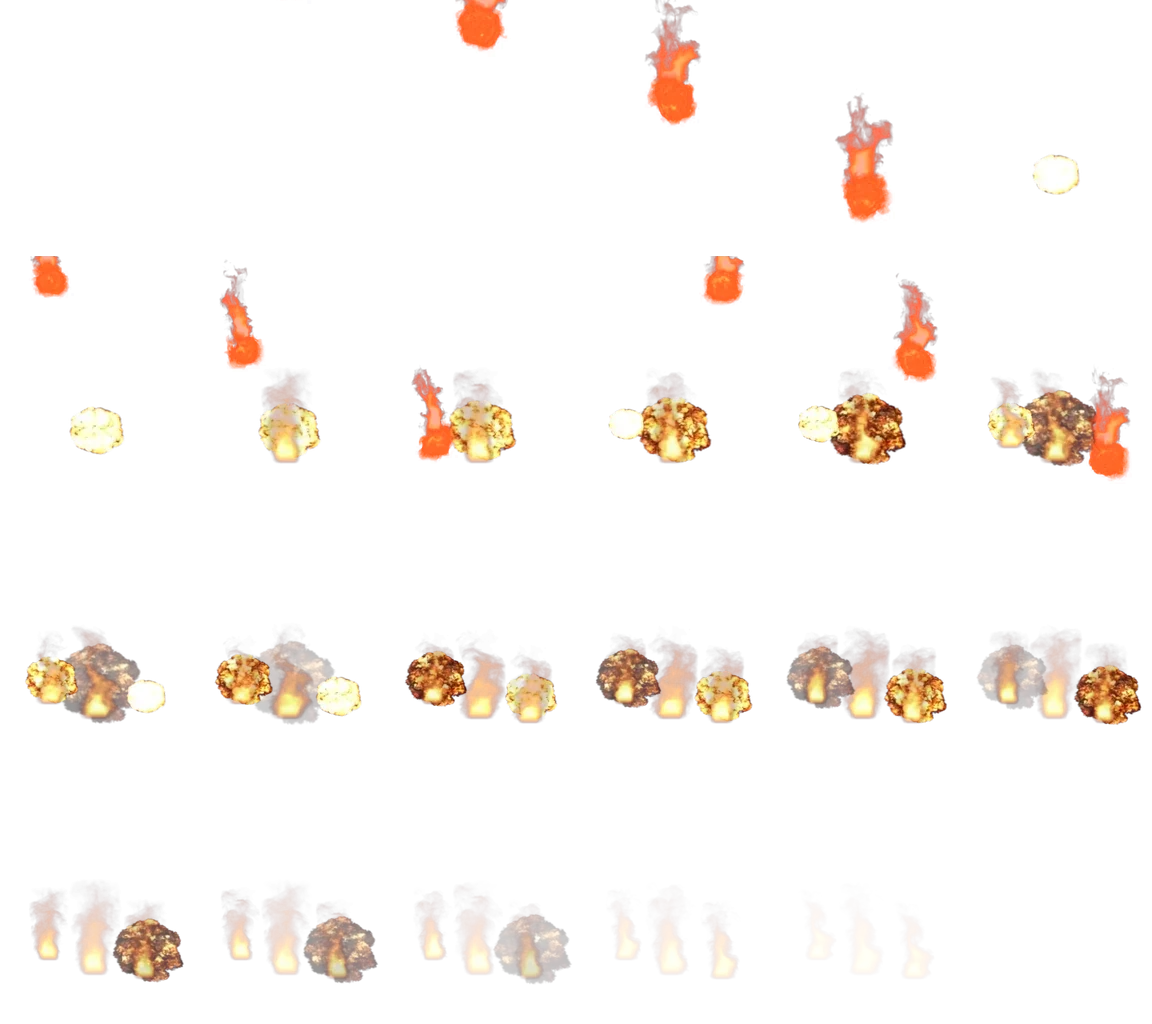
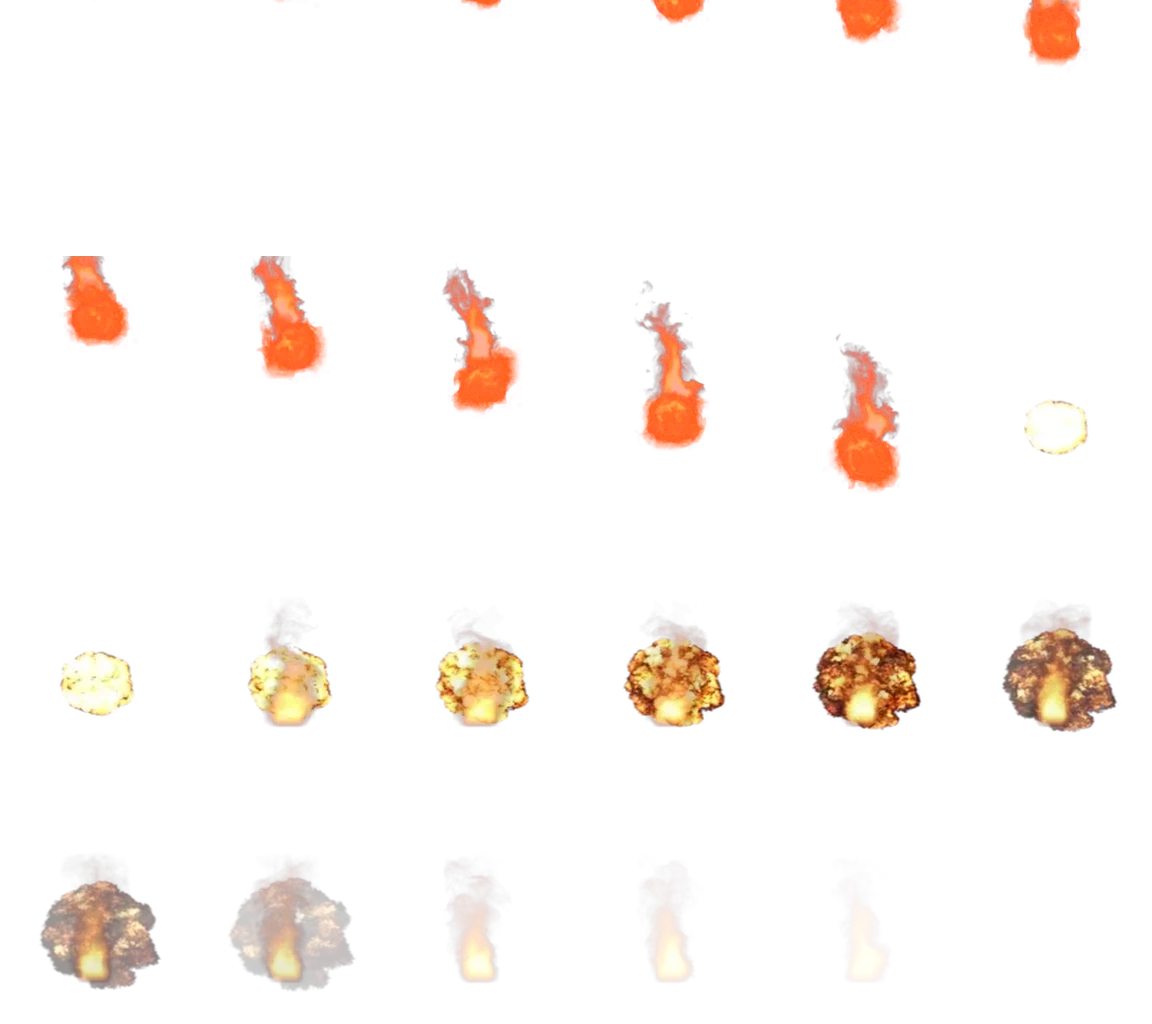
VFX_SPEC/AFX_SPEC: a multi-hit move draws and sounds once per hit (24 stages; #1154), and Cataclysm drops the meteor trap's rock - FX-056 rebaked as the trap's single 11-frame fall, fx_bank Contact_Frame (the hit beat waits for the landing; afx_lint fx_anchor twin of VFX_BANK.impactMs), AFX-853 the 
Claude-Session: https://claude.ai/code/session_01JEYvxCsoPFLr58Q5uApQmG

diff --git a/tools/make_meteor_sheet.py b/tools/make_meteor_sheet.py
@@ -14,10 +14,11 @@ the Tower's VFX_BANK only steps a sheet (`vxbStep<F>x<C>`, transform only, no fi
 fall is PRE-BAKED: every frame of this sheet already holds the rocks where they are at that instant, and the
 client plays it like any other bank sheet - no renderer change, no new sheet type.
 
-SHAPE. 24 frames, 6 columns (a shape VFX_BANK.SHAPES already carries), frame 192 x 256 (portrait: the rocks
-come in from above the tile). Three meteors, staggered: the centre one lands on frame 5 (208 ms at v1, so a
-layer at d0 lands with the 200 ms impact beat), the left on 9, the right on 12. Each lands in the fire half of an
-FX-006 Ember Blast (frames 0-8, before it turns to smoke) and leaves a short FX-012 flame that dies out by the last frame.
+SHAPE. 24 frames, 6 columns (a shape VFX_BANK.SHAPES already carries), frame 192 x 256 (portrait: the rock
+comes in from above the tile). Since #1167 (D 2026-11-03) ONE rock, the trap's own: an 11-frame fall (the trap's
+440 ms) landing on frame 11 (fx_bank.csv `Contact_Frame`), in the fire half of an FX-006 Ember Blast (frames 0-8,
+before it turns to smoke), leaving a short FX-012 flame that dies out by the last frame. The 2026-10-01 sheet's
+three rocks landed on frames 5 / 9 / 12.
 
   python tools/make_meteor_sheet.py      -> assets/fx/bank/fx-056.webp (+ prints Hue / Sat for fx_bank.csv)
 """
@@ -53,10 +54,19 @@ def paste(dst, im, cx, cy, w, h, op=1.0):
     layer.paste(im, (int(cx - im.width / 2), int(cy - im.height / 2)))
     return Image.alpha_composite(dst, layer)
 
-# (centre x, landing y, landing frame, rock size): the centre rock first and biggest
-METEORS = [(96, 196, 5, 62), (50, 184, 9, 48), (146, 202, 12, 52)]
-FALL = 5           # frames from above the frame to the ground
-TOP = -70
+# #1167 (D 2026-11-03, "cataclysm should use the meteor VFX we have for the meteor trap in Herumon Dungeon. The
+# audio needs to be synced so it's burning afx as the meteor descends, then impact vfx on impact"). The 2026-10-01
+# sheet dropped THREE small rocks in 5 frames (208 ms) - a shower, not the trap's meteor, and too quick to hear a
+# burn under. Rebuilt to the trap's own theatre: ONE rock, the trap's proportions (sphere 1.25 cells, tail 1.10 x
+# 0.72 cells centred 0.95 cells above the head, a fall from 3.5 cells up) and its FALL of 440 ms on the u^2 ease =
+# 11 frames at 24 fps. It lands on frame 11 = CONTACT_FRAME, which fx_bank.csv carries as `Contact_Frame` so the
+# client's impact beat (VFX_BANK.impactMs) and afx_lint's main-beat pin read the LANDING, not the layer's start.
+CONTACT_FRAME = 11
+SIZE = 84                       # the sphere; the trap's 1.25 of a 3.5-cell fall -> 84 px of a ~236 px drop
+LAND_Y = 200
+METEORS = [(96, LAND_Y, CONTACT_FRAME, SIZE)]
+FALL = CONTACT_FRAME
+TOP = -SIZE * 0.5               # the head enters from above the frame
 
 def frame(k):
     fr = Image.new('RGBA', (FW, FH))
@@ -65,8 +75,10 @@ def frame(k):
         if t0 <= k < land:
             u = (k - t0 + 1) / FALL
             y = TOP + (ly - TOP) * u * u
-            # ONE tail, drawn first so it sits behind the head, its base inside the head's top edge (dungeon #185)
-            fr = paste(fr, hot(TAIL[(k * 3) % 24], red=0.45, alpha=1.6), x, y - size * 1.0, size * 1.0, size * 2.0)
+            # ONE tail, drawn first so it sits behind the head (dungeon #185). The
+            # trap tail is 1.10 x 0.72 cells of PADDED FX-013 art; this sheet crops tighter, so the flame is drawn 0.95 x 1.8 sphere
+            # with its centre 0.85 sphere above the head, which is what reads as one object at 192 x 256
+            fr = paste(fr, hot(TAIL[(k * 3) % 24], red=0.45, alpha=1.6), x, y - size * 0.85, size * 0.95, size * 1.8)
             r = hot(ROCK[(k * 2) % 24], red=0.35, alpha=1.5)
             fr = paste(fr, r, x, y, size, size)
             fr = paste(fr, r, x, y, size * 0.8, size * 0.8)        # the second additive pass, a touch tighter

diff --git a/tools/afx_lint.py b/tools/afx_lint.py
@@ -17,6 +17,10 @@ import argparse, csv, os, re, sys
 
 HERE = os.path.dirname(os.path.dirname(os.path.abspath(__file__)))
 BANK = {r['Id']: r for r in csv.DictReader(open(os.path.join(HERE, 'codex', 'afx_bank.csv'), encoding='utf-8'))}
+# #1167 (D 2026-11-03): a sheet that pre-bakes a fall (FX-056 Meteor Fall) touches its target on a later frame
+# than its first; fx_bank.csv `Contact_Frame` says which, and the picture's beat is d + that frame at the layer's v
+# - the same arithmetic as the client's VFX_BANK.impactMs. Empty = 0 = every other sheet, unchanged.
+FXBANK = {r['Id']: r for r in csv.DictReader(open(os.path.join(HERE, 'codex', 'fx_bank.csv'), encoding='utf-8'))}
 
 # codex/AFX_SPEC.md, "The grammar". A token appears at most once in a layer; the range is inclusive.
 TOK = re.compile(r'^(g|p|d|n|i|j)(-?\d+(?:\.\d+)?)$')
@@ -127,11 +131,16 @@ def fx_anchor(fx_txt):
         m = re.match(r'^FX-\d{3}@(u|t|g|ug|b|a)\b', raw)
         if not m:
             continue
-        d = 0
+        d, v = 0, 1.0
         for t in raw.split()[1:]:
             mm = re.match(r'^d(-?\d+(?:\.\d+)?)$', t)
             if mm:
                 d = float(mm.group(1))
+            mv = re.match(r'^v(\d+(?:\.\d+)?)$', t)
+            if mv:
+                v = float(mv.group(1))
+        cf = float((FXBANK.get(raw.split('@')[0]) or {}).get('Contact_Frame') or 0)
+        d += cf * 1000.0 / (24 * v)
         ds.append(d)
         if m.group(1) in ('t', 'g', 'b'):
             tds.append(d)

diff --git a/codex/VFX_SPEC.md b/codex/VFX_SPEC.md
@@ -88,6 +88,30 @@ touch an approval.
 
 ## Changelog
 
+- **2026-11-03** - **A multi-hit move draws and sounds once per hit, and Cataclysm drops the meteor trap's rock
+  (D, bug reports #1154 "the polyp attack that hits twice, its AFX has 3 hits when the attack only has 2" and #1167
+  "cataclysm should use the meteor VFX we have for the meteor trap in Herumon Dungeon. The audio needs to be synced
+  so it's burning afx as the meteor descends, then impact vfx on impact").** **Hits:** a stage whose Effect reads
+  "Damage as N (rapid) hits" now repeats its MAIN FX layer and its MAIN AFX layer N times (`n`, capped at the
+  grammar's 4 - Wall of Claws hits 5), and the AFX `i` steps on the picture's repeat (Frames / (24 v)). 24 stages
+  were off: Triple Maul S1 (Polyp) sounded n3 on 2 hits, Sixfold/Ninefold Fury n2 on 3, Fang Flurry n1 on 3-4,
+  Double Image and the Inferno Chimera breaths drew one sheet for 2-3 hits, and so on. Where a stage's length budget
+  cannot hold N repeats of a full sheet even at v4 (Many Roars S1, Hundred-Headed Storm S2, Fang Flurry S1-S2, Claw
+  Tide S1, Wall of Claws S2) the picture repeats as often as fits at v4 and the sound still repeats N times.
+  **Contact frame:** `fx_bank.csv` gains `Contact_Frame` - the frame a sheet that PRE-BAKES a fall touches its
+  target on (empty = 0 = every sheet but one). The hit beat (`VFX_BANK.impactMs`: numbers, hit tint, `!shake`,
+  `!stop`, `battle.hurt`) and `afx_lint`'s main-beat pin are now `d + Contact_Frame / (24 v)`; before, a falling
+  sheet's hit fired as the rock entered the frame. **FX-056 Meteor Fall** rebaked (`tools/make_meteor_sheet.py`)
+  as the trap's own theatre: ONE rock, an 11-frame fall (the trap's 440 ms, u^2 ease), `Contact_Frame` 11, then the
+  FX-006 fire burst; the 2026-10-01 sheet's three small rocks landed in 5 frames. **Cataclysm** (`ULT-MAGE-3`):
+  `FX-056@t d200 v0.7` lands at d855, FX-007 (the trap's blast) and FX-039 at d860, FX-032@g d900, FX-012 d940; the
+  FX-003 Pale Detonation is gone. Its sound is the trap's: **AFX-853** (dfmc-dungeon `floor_meteor_burn.ogg`,
+  copied unchanged, CC0 Kenney) at d0 g0.5 p+2 burns the whole way down (980 ms) and is out as the rock lands, then
+  AFX-526 Low Frequency explosion 001 (the sibling of the trap's own explosion source) at d860 with the bangs
+  behind it. The trap's 0.06 -> 1 swell is not expressible in the AFX grammar (no gain envelope); the clip plays
+  at flat g0.5. `dfmc-client/tools/probe_01154.py` red 0/4 -> 4/4, `probe_01167.py` 2/7 -> 7/7. Reaches players
+  when `DATA_PIN` next advances. Owning pages: this spec, `AFX_SPEC.md`, `vfx.html`.
+
 - **2026-10-23** - **Particles on ability mouseover (C12, ruling 10.6).** ON DEV. Hovering (or pressing) a move on the
   battle move panel raises 12 motes inside that button: the motion is the move's category - offensive sparks rise
   fast, support motes drift up, debuff motes sink - and the colour is the move's own `VFX_Color`, so the hover

diff --git a/codex/AFX_SPEC.md b/codex/AFX_SPEC.md
@@ -334,6 +334,13 @@ writes to.
 
 ## Changelog
 
+- **2026-11-03** - **One sound per hit, and the meteor trap's burn (#1154 / #1167).** A multi-hit stage's main
+  layer repeats `n` = its hit count (cap 4) with `i` on the picture's repeat; 24 stages corrected (`VFX_SPEC.md`,
+  same date). New clip **AFX-853 Meteor Burn** (`assets/afx/dungeon/floor-meteor-burn.ogg`, dfmc-dungeon cue
+  `floor.meteor_burn` copied unchanged; CC0 Kenney Sci-fi Sounds, measured LUFS -22.3, onset 28 ms) - Cataclysm's
+  burn under the falling rock. `tools/afx_lint.py` `fx_anchor` adds the sheet's `fx_bank.csv` `Contact_Frame`, so a
+  main beat pins to the moment a falling sheet LANDS, the client's `VFX_BANK.impactMs` twin.
+
 - **2026-10-23** — **the sound follows two pictures that moved, and the four new lines get the character
   pass** (#994; probe census round 5). Two rows broke the timing pin after their FX changed under them.
   *Lightless Carapace* (`M-VOIDSHELL-4`) lost its d0 Hex Motes on 2026-10-22 (VFX_SPEC, T14), so its
